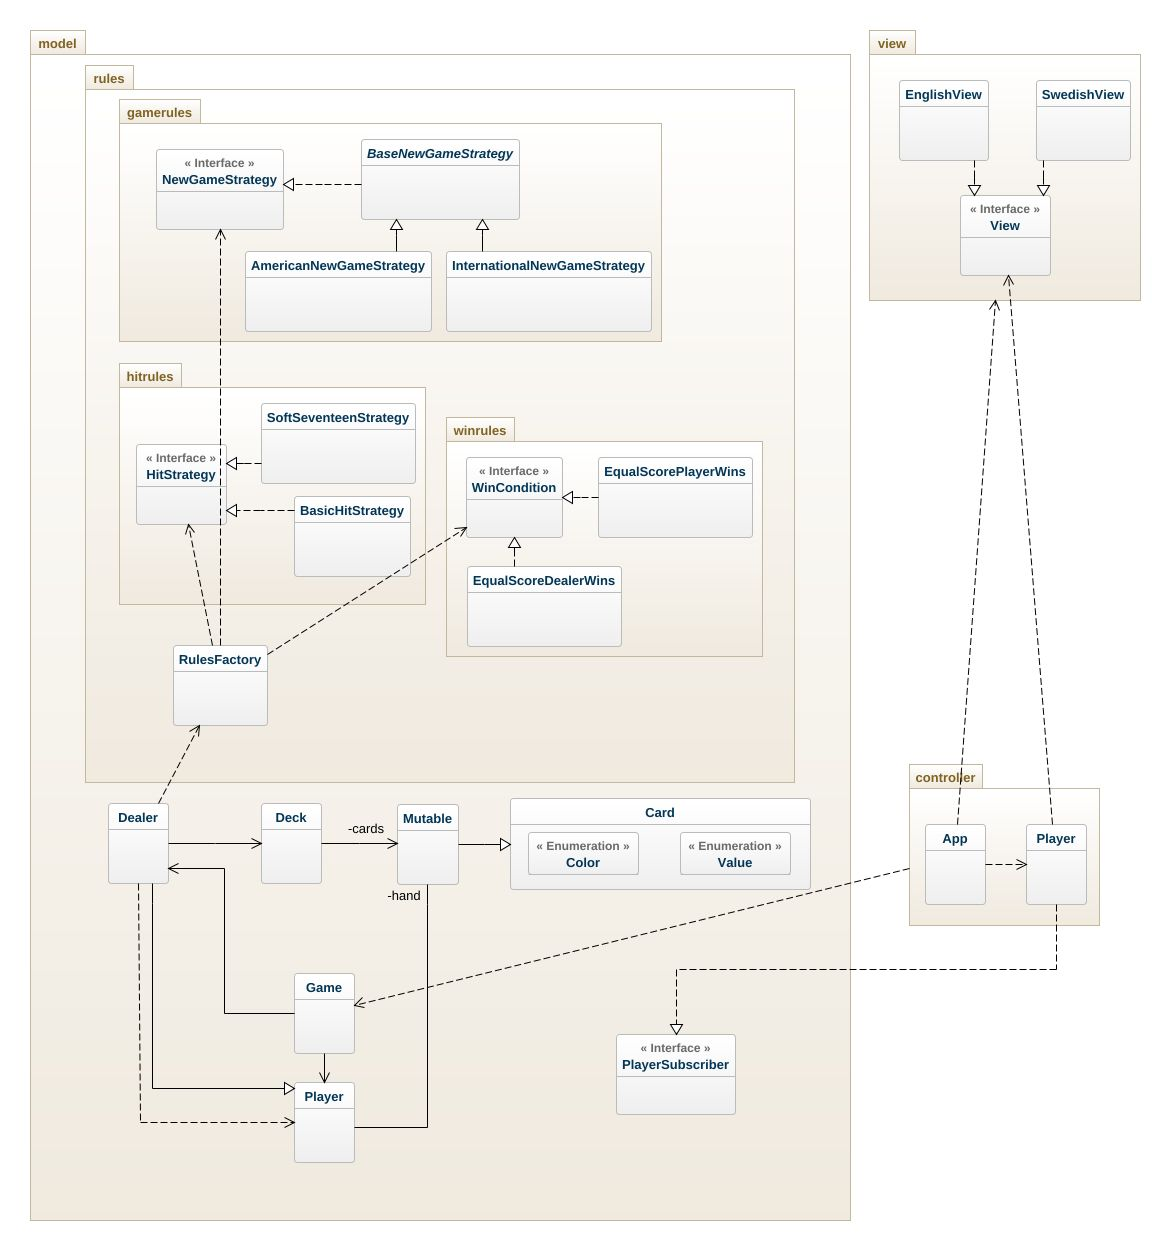
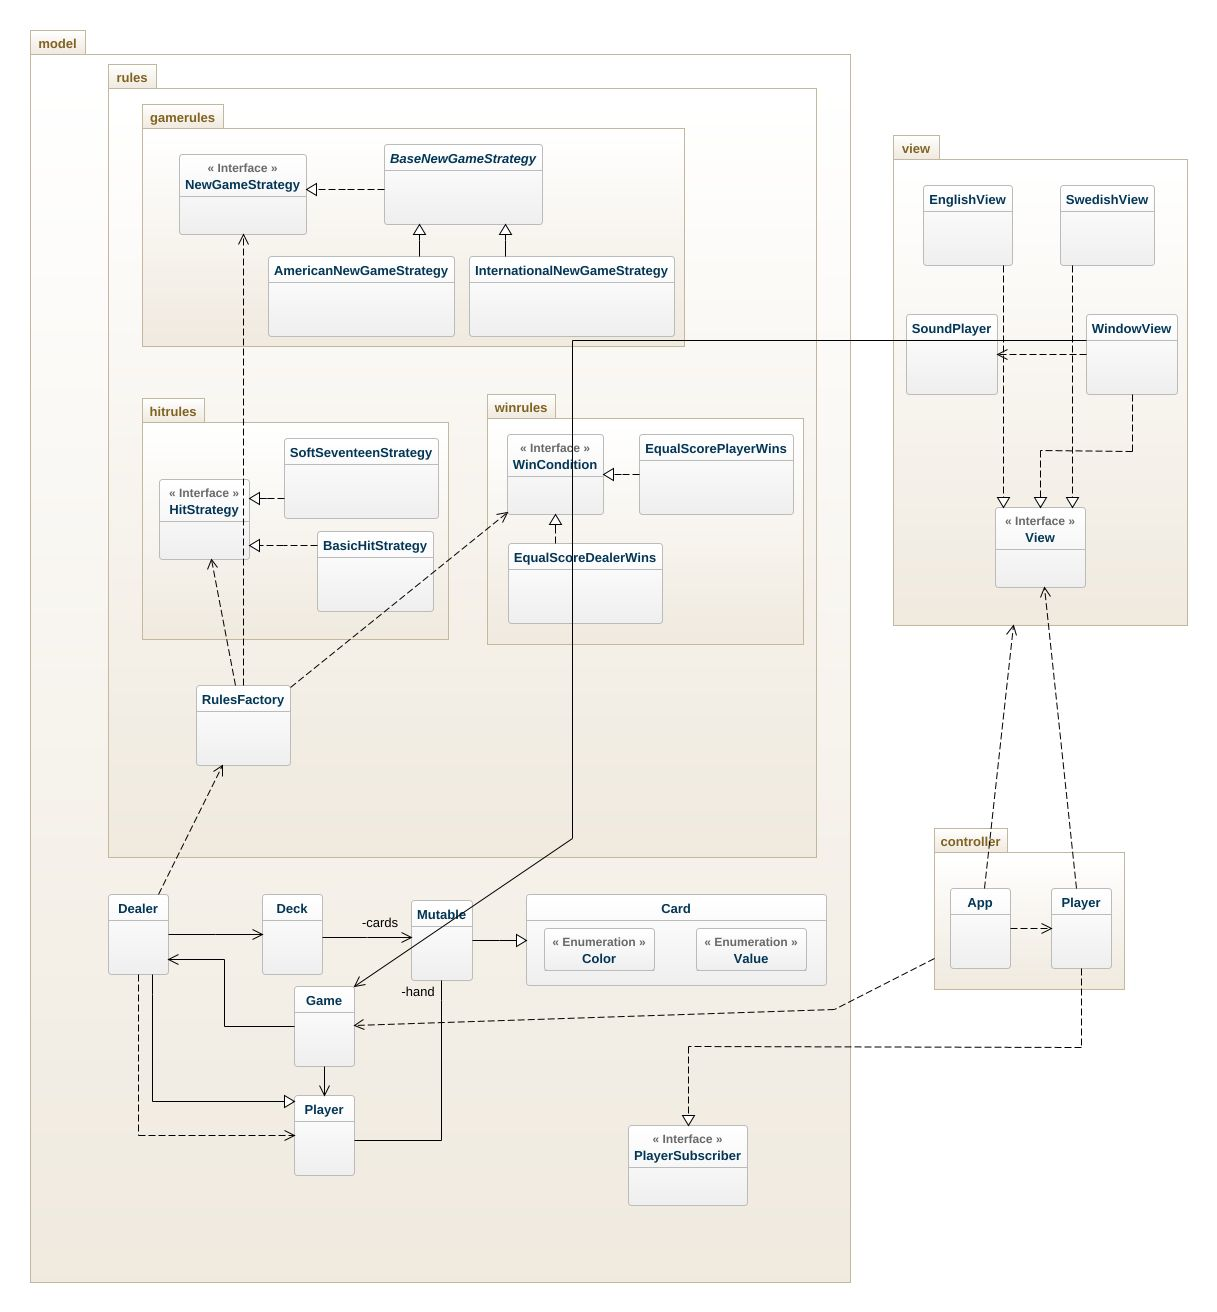
Update README and class diagram

diff --git a/app/src/main/java/view/WindowView.java b/app/src/main/java/view/WindowView.java
@@ -40,8 +40,8 @@ public class WindowView implements View {
     @Override
     public void paintComponent(Graphics g) {
       super.paintComponent(g);
-      redrawUi(game, g);
 
+      redrawUi(game, g);
       displayGameOver(game.isDealerWinner(), g);
       colorGameOver(game.isDealerWinner(), g);
     }
@@ -170,15 +170,15 @@ public class WindowView implements View {
    * Displays the cards and score of the player.
    */
   public void displayPlayerHand(Iterable<Card> hand, int score, Graphics g) {
-    int x = 200;
-    int y = 300;
+    int x = 200; // end of the player's hand
+    int y = 300; // end of the player's hand
     for (Card card : hand) {
       try {
         displayCard(card, x, y, g);
       } catch (Exception e) {
         System.out.println("Error in displayPlayerHand");
       }
-      x += 50;
+      x += 50; // move the card to the right
     }
   }
 
@@ -261,7 +261,5 @@ public class WindowView implements View {
 
     panel.repaint();
   }
-
-
 
 }

diff --git a/README.md b/README.md
@@ -1,30 +1,11 @@
-# A3
-
-Assignment 3 - grade 2
-
-Group members:
-- Anna Manole
-
-The application is started from App.java. There the game and view objects are instantiated. These are passed into the Player controller that is responsible for the game loop.
-In the model the dealer plays according to a set of rules that are created in the RulesFactory class. 
-**To modify the way the game is being played, modify the RulesFactory class to create rules to suit your needs.**
-Three difficult rules are attached to a dealer: 
-- rules for how a game should play out; this means things like showing cards or not, potentially who gets their card first could also be implemented (gamerules package)
-- rules for when a dealer should hit (hitrules package)
-- rules for who wins on a draw in this implementation (winrules package).
-
-A view interface is implemented by the two types of views that are available: one for Swedish and one for English. The view is responsible for printing the game state to the user and for getting input from the user. The view is also responsible for printing the result of the game.
-
-The observer pattern was used to notify the Player controller when a player (dealer or human player) draws a new card. Here we have a pause after each draw. The view redraws the UI when this happens and prints out the new state of the game, with the new card.
-
-After all the cards have finished being drawn, the whole game state is printed out, including the scores of the players and in the case of the game being over, the winner is printed out.
-
-
 ## Assignment 2 - grade 4
 
 Group members:
 - Anna Manole
 
-Problems with path of images. Should be placed in src/main/resources... Took a long time to get it to work.
+For this project I used swing as a framework for Java. Initially I had problems with having the path of resources work. They should have been placed in src/main/resources and then use the command gradle clean build. Took a long time to get it to work. I also had to rename all my images so that I don't refactor the model.
 
-I also had to use gradle clean build as a command to get the images to show up.
+Displaying the images was no problem, however animating it went through several failed itterations. I am assuming that it has to do with repainting the panel all the time, but I could not get it to work. I ended up just adding sound on card draw.
+
+I don't think implementing the View interface was optimal, considering I'm overriding the methods in the view class. I would have liked to have a separate class for the view, but then I would have had to rewrite the Player controller. I kept the overridden methods in the WindowView class and use them as a way to debug at the terminal.
+
